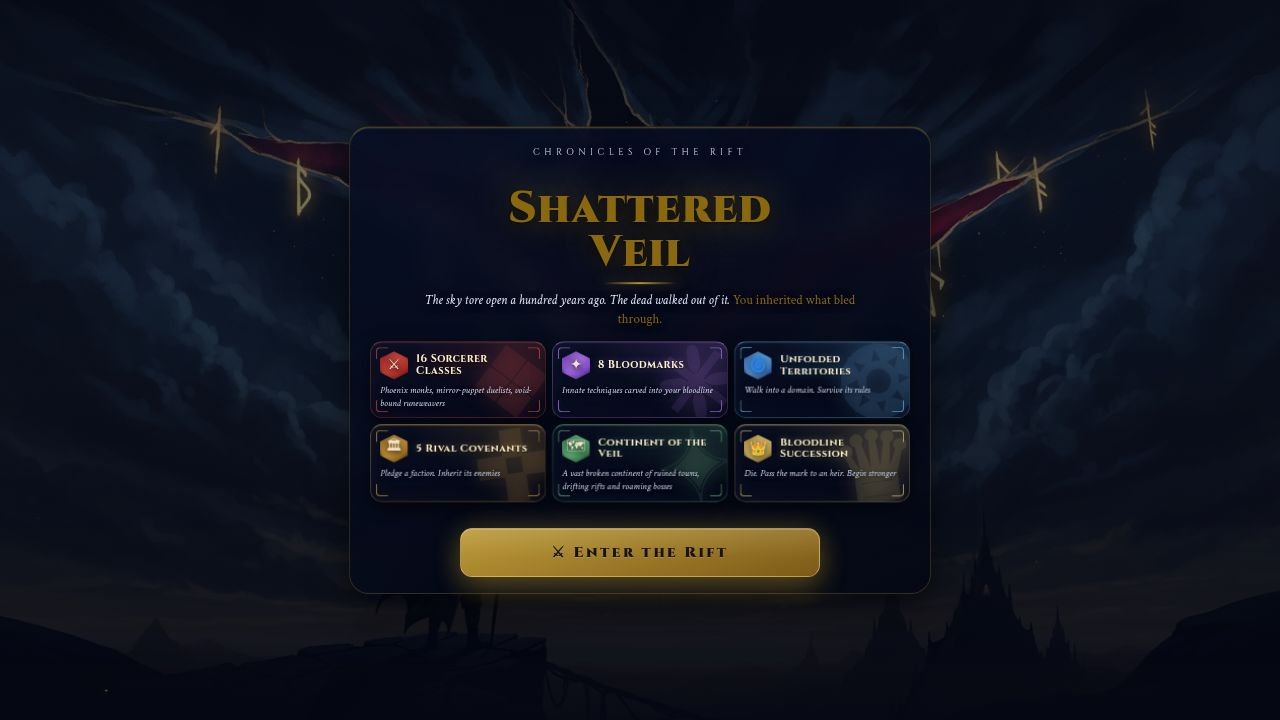
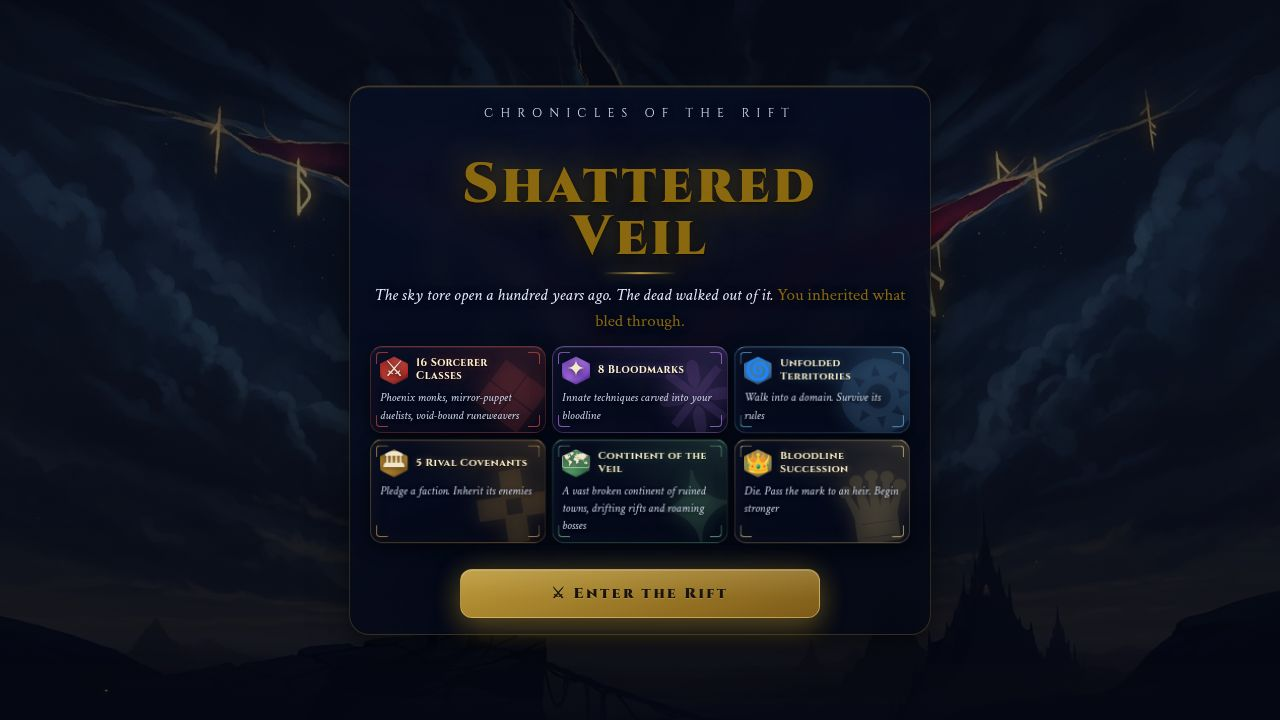
Improve game interface with updated visuals and interactive elements
Refactor HUD component, update CSS for styling, and add new image assets for resources.

Replit-Commit-Author: Agent
Replit-Commit-Session-Id: 8a621423-fdf4-488f-94bb-8c528560146f
Replit-Commit-Checkpoint-Type: full_checkpoint
Replit-Commit-Event-Id: 3fc35c25-d563-4f04-9aa5-8ef2459fb887
Replit-Commit-Screenshot-Url: https://storage.googleapis.com/screenshot-production-us-central1/82c241e2-9a1b-467b-b8f6-fd501ec4e4f2/8a621423-fdf4-488f-94bb-8c528560146f/ZHe4quu
Replit-Helium-Checkpoint-Created: true

Changed region(s): [[0.2812, 0.2139, 0.7188, 0.8861], [0.375, 0.1528, 0.625, 0.1833]]

diff --git a/artifacts/shattered-veil/src/game.css b/artifacts/shattered-veil/src/game.css
@@ -5574,3 +5574,172 @@ html, body, #root { height: 100%; max-height: 100vh; overflow: hidden; }
   font-size: 16px;
   filter: drop-shadow(0 0 4px rgba(120, 196, 236, 0.55));
 }
+
+/* ====================================================================
+   v73 — TITLE TYPOGRAPHY + HUD REDESIGN + READABLE BUTTONS
+   ====================================================================
+   - Title h1 / tagline / pillars / CTA: bigger, bolder, more readable.
+   - HUD char-info: bars relocated alongside text rows (2-col grid),
+     bubble is shorter and feels balanced.
+   - HUD resource tiles: painted PNG sigils replace flat emoji.
+   - Fish moved into the primary row beside SHD; clicking opens a popup
+     ledger instead of an inline dropdown.
+   - All char-box pieces (name, class, gen, day, rank, bm, covenant) and
+     resource tiles (gold/frag/shd/fish/bank/loan) are clickable with
+     info popups.
+   - Battle aux dropdown panels: dark navy bg + light text (was
+     parchment, white-on-white text was invisible).
+   - Char-creation back buttons unified: dark navy + cream text.
+   - Tags (rank/bloodmark/covenant) standardised: Cinzel uppercase pill.
+   ==================================================================== */
+
+/* Title typography bumps — slightly bigger, easier to read */
+.title-bg-art .title-hero h1 {
+  font-size: 56px !important;
+  letter-spacing: 0.06em !important;
+  line-height: 0.94 !important;
+}
+.title-eyebrow { font-size: 12px !important; letter-spacing: 0.6em !important; }
+.title-tagline { font-size: 17px !important; line-height: 1.55 !important; max-width: 540px !important; }
+.title-pillar-nm { font-size: 13px !important; line-height: 1.25 !important; }
+.title-pillar-ds { font-size: 12px !important; line-height: 1.45 !important; }
+.title-pillar-ic { font-size: 22px !important; }
+.title-cta { font-size: 19px !important; padding: 18px 28px !important; letter-spacing: 0.20em !important; }
+@media (max-width: 520px) {
+  .title-bg-art .title-hero h1 { font-size: 42px !important; }
+  .title-tagline { font-size: 15px !important; }
+  .title-cta { font-size: 16px !important; padding: 14px 20px !important; }
+}
+
+/* Battle aux dropdown panels — readable dark navy + light text */
+.battle-aux-dropdown {
+  background: linear-gradient(180deg, rgba(10,16,38,0.96) 0%, rgba(6,10,24,0.98) 100%) !important;
+  border: 1px solid rgba(212,173,64,0.32) !important;
+  color: #e6ecff !important;
+  box-shadow: inset 0 1px 0 rgba(255,224,160,0.08), 0 6px 18px rgba(0,0,0,0.45);
+}
+.battle-aux-dropdown > div { color: #e6ecff !important; }
+.battle-aux-dropdown > div[style*="cursor"] {
+  background: linear-gradient(180deg, rgba(20,28,56,0.85), rgba(12,18,40,0.92)) !important;
+  border: 1px solid rgba(212,173,64,0.22) !important;
+  color: #e6ecff !important;
+  transition: border-color 120ms ease, box-shadow 120ms ease, transform 120ms ease;
+}
+.battle-aux-dropdown > div[style*="cursor"]:hover {
+  border-color: rgba(242,196,92,0.55) !important;
+  box-shadow: 0 0 10px rgba(212,173,64,0.30);
+  transform: translateY(-1px);
+}
+.battle-aux-dropdown > div[style*="cursor"] > div { color: #e6ecff !important; }
+.battle-aux-dropdown > div[style*="cursor"] span { color: inherit; }
+
+/* HUD v73 — char-info 2-column layout (text left, mini-bars right) */
+.hud-shell-v73 .hud-char-info-cols {
+  display: grid;
+  grid-template-columns: minmax(0, 1fr) 128px;
+  gap: 10px;
+  align-items: start;
+}
+@media (max-width: 540px) {
+  .hud-shell-v73 .hud-char-info-cols { grid-template-columns: 1fr; gap: 5px; }
+}
+.hud-shell-v73 .hud-char-info-text { min-width: 0; display: flex; flex-direction: column; gap: 2px; }
+.hud-shell-v73 .hud-char-bars {
+  margin-top: 0 !important;
+  background: linear-gradient(180deg, rgba(8,12,28,0.70) 0%, rgba(4,8,18,0.88) 100%);
+  border: 1px solid rgba(212,173,64,0.22);
+  border-radius: 7px;
+  padding: 5px 6px;
+  gap: 3px !important;
+}
+.hud-shell-v73 .hud-char-bar { grid-template-columns: 18px 1fr 44px !important; gap: 4px !important; }
+.hud-shell-v73 .hud-char-bar > div { height: 7px !important; }
+.hud-shell-v73 .hud-char-bar-num { font-size: 8.5px !important; }
+
+/* HUD v73 — clickable affordances */
+.hud-shell-v73 .hud-clickable { cursor: pointer; transition: filter 120ms ease, text-shadow 120ms ease, transform 120ms ease; }
+.hud-shell-v73 .hud-clickable:hover { filter: brightness(1.18); text-shadow: 0 0 8px currentColor; }
+.hud-shell-v73 .hud-tag.hud-clickable:hover { box-shadow: 0 0 10px currentColor; transform: translateY(-1px); }
+.hud-shell-v73 .hud-sub-sep { color: rgba(241,231,200,0.35) !important; }
+.hud-shell-v73 .hud-char-portrait.hud-clickable:hover { transform: scale(1.04); }
+
+/* HUD v73 — standardised tag pills (rank, bloodmark, covenant) */
+.hud-shell-v73 .hud-tag {
+  font-size: 9px !important;
+  padding: 2px 8px !important;
+  font-family: 'Cinzel', serif !important;
+  letter-spacing: 0.06em !important;
+  text-transform: uppercase;
+  font-weight: 700 !important;
+  border-width: 1px !important;
+  border-style: solid !important;
+  border-radius: 999px !important;
+  display: inline-flex;
+  align-items: center;
+  gap: 4px;
+  line-height: 1.2;
+}
+
+/* HUD v73 — painted resource icons */
+.hud-shell-v73 .hud-res-tile {
+  padding: 4px 9px 4px 5px;
+  gap: 6px;
+  min-height: 30px;
+  border-radius: 7px;
+}
+.hud-shell-v73 .hud-res-row { gap: 5px; }
+.hud-shell-v73 .hud-res-ic {
+  display: inline-flex; align-items: center; justify-content: center;
+  width: 24px; height: 24px;
+  position: relative;
+  filter: drop-shadow(0 1px 2px rgba(0,0,0,0.7));
+  flex: 0 0 auto;
+}
+.hud-shell-v73 .hud-res-ic-img {
+  width: 24px; height: 24px;
+  object-fit: contain;
+  display: inline-block;
+}
+.hud-shell-v73 .hud-res-ic-fb { font-size: 16px; line-height: 1; }
+.hud-shell-v73 button.hud-res-tile {
+  font-family: inherit;
+  cursor: pointer;
+  appearance: none;
+}
+.hud-shell-v73 button.hud-res-tile:hover {
+  border-color: rgba(242,196,92,0.55);
+  box-shadow: 0 0 12px rgba(212,173,64,0.35);
+  transform: translateY(-1px);
+}
+.hud-shell-v73 .hud-res-tile.is-empty { opacity: 0.55; }
+.hud-shell-v73 .hud-res-tile.hud-res-gold  { background: linear-gradient(180deg, rgba(74,52,18,0.85), rgba(38,26,8,0.92)) !important; border-color: rgba(242,196,92,0.50) !important; }
+.hud-shell-v73 .hud-res-tile.hud-res-frag  { background: linear-gradient(180deg, rgba(50,30,72,0.85), rgba(28,16,46,0.92)) !important; border-color: rgba(206,147,216,0.45) !important; }
+.hud-shell-v73 .hud-res-tile.hud-res-shard { background: linear-gradient(180deg, rgba(60,28,58,0.85), rgba(34,14,32,0.92)) !important; border-color: rgba(245,184,224,0.45) !important; }
+.hud-shell-v73 .hud-res-tile.hud-res-fish  { background: linear-gradient(180deg, rgba(14,42,68,0.85), rgba(6,22,42,0.92)) !important; border-color: rgba(127,209,255,0.45) !important; }
+.hud-shell-v73 .hud-res-tile.hud-res-bank  { background: linear-gradient(180deg, rgba(18,34,58,0.85), rgba(8,18,36,0.92)) !important; border-color: rgba(184,230,255,0.45) !important; }
+.hud-shell-v73 .hud-res-tile.hud-res-loan  { background: linear-gradient(180deg, rgba(60,18,18,0.88), rgba(34,8,8,0.94)) !important; border-color: rgba(229,57,53,0.55) !important; }
+
+/* HUD v73 — bubble polish: a subtle inner gold rule under top edge */
+.hud-shell-v73 .hud-char-box,
+.hud-shell-v73 .hud-resource-box {
+  box-shadow: inset 0 1px 0 rgba(255,224,160,0.18), inset 0 0 0 1px rgba(255,255,255,0.02), 0 6px 16px rgba(0,0,0,0.45);
+}
+
+/* Fish ledger — popup styling */
+.popup-modal .hud-fish-ledger-popup {
+  display: grid;
+  gap: 4px;
+  max-height: 50vh;
+  overflow-y: auto;
+  padding: 4px 2px;
+}
+.popup-modal .hud-fish-ledger-popup .hud-fish-row {
+  display: flex; justify-content: space-between; gap: 12px;
+  padding: 7px 12px;
+  background: linear-gradient(180deg, rgba(14,22,46,0.88), rgba(8,14,30,0.95));
+  border: 1px solid rgba(212,173,64,0.25);
+  border-radius: 7px;
+  font-size: 12px;
+}
+.popup-modal .hud-fish-ledger-popup .hud-fish-nm { color: #cfd6ee; font-family: 'Crimson Text', serif; }
+.popup-modal .hud-fish-ledger-popup .hud-fish-qty { color: #ffd97a; font-family: 'Cinzel', serif; font-weight: 800; letter-spacing: 0.04em; }

diff --git a/artifacts/shattered-veil/src/Game.jsx b/artifacts/shattered-veil/src/Game.jsx
@@ -6960,55 +6960,88 @@ const buildGroupedBattleLog = (entries) => {
 
   // ── HUD ──
   const fishCount = Array.isArray(fish) ? fish.reduce((s, f) => s + (f.qty || 1), 0) : 0;
-  const hud = pl && !["title","create"].includes(scr) ? (
-    <div className="cd hud-shell hud-shell-v63" style={{ padding: 8 }}>
-      {/* v63 — top row: character box + resource box */}
+  const hud = pl && !["title","create"].includes(scr) ? (() => {
+    const RES_BASE = (import.meta.env.BASE_URL || "/") + "res/";
+    const resIc = (name, emoji) => <span className="hud-res-ic">
+      <img className="hud-res-ic-img" src={RES_BASE + name + ".png"} alt="" draggable={false}
+        onError={(e) => { try { const t = e.currentTarget; t.style.display = "none"; const fb = t.nextElementSibling; if (fb) fb.style.display = "inline-block"; } catch(_){} }} />
+      <span className="hud-res-ic-fb" style={{ display: "none" }}>{emoji}</span>
+    </span>;
+    const rk = getRank(pl.level);
+    const nextRk = getNextRankLevel(pl.level);
+    const bmLive = pl.bloodmark ? getBM(pl.bloodmark) : null;
+    const cvLive = pl.covenant ? getCV(pl.covenant) : null;
+    const elDisplay = cls ? (cls.multiEl ? "4 random elements" : (cls.el2 ? cls.el + " / " + cls.el2 : cls.el)) : "—";
+    const heroSummary = "⚔ " + pl.name + "\n\nA " + (cls?.nm || "sorcerer") + " of generation " + (pl.generation || 1) + ", currently " + ageInfo.nm.toLowerCase() + " on day " + ageDay + " of their span.";
+    const openFishPopup = () => setPopup({
+      title: "🐟 Fish Caught — " + fishCount,
+      node: fishLedger.length > 0 ? <div className="hud-fish-ledger-popup">{fishLedger.map(f => <div key={f.nm} className="hud-fish-row"><span className="hud-fish-nm">{f.nm}</span><span className="hud-fish-qty">×{f.qty}</span></div>)}</div> : <div style={{ fontSize: 12, color: "#bcc6e6", textAlign: "center", padding: 14, lineHeight: 1.5 }}>No fish caught yet — visit a coast or stand in water and tap the Fish quick-button on the map.</div>,
+      fullscreen: true,
+    });
+    return (
+    <div className="cd hud-shell hud-shell-v63 hud-shell-v73" style={{ padding: 8 }}>
+      {/* v73 — top row: character box + resource box */}
       <div className="hud-top-row">
         {/* CHARACTER BOX */}
         <div className="hud-char-box">
-          <div className="hud-char-portrait" style={{ background: cls?.cl, border: "1.5px solid " + (cls?.cl || T.gd), boxShadow: "0 0 0 1px rgba(0,0,0,0.5), 0 0 12px " + (cls?.cl || T.gd) + "66" }}>
+          <div className="hud-char-portrait hud-clickable" title="Hero — click for details" onClick={() => setPopup({ text: heroSummary })} style={{ background: cls?.cl, border: "1.5px solid " + (cls?.cl || T.gd), boxShadow: "0 0 0 1px rgba(0,0,0,0.5), 0 0 12px " + (cls?.cl || T.gd) + "66" }}>
             {playerAvatar(pl?.cid || cls?.id, cls?.ic, pl?.portrait, pl?.sex)}
           </div>
           <div className="hud-char-info">
-            <div className="hud-char-name-row">
-              <span className="hud-char-name" style={{ color: cls?.cl }}>{pl.name}</span>
-              {entityBattleElements(pl).map((elx, i) => <ElementTag key={elx + "_hud_" + i} el={elx} fontSize={9} />)}
-            </div>
-            <div className="hud-char-sub">{cls?.nm} · Gen.{pl.generation || 1} · {ageSummary}</div>
-            <div className="hud-char-tags">
-              {(() => { const rk = getRank(pl.level); return <span className="hud-tag" style={{ background: rk.cl + "22", borderColor: rk.cl + "55", color: rk.cl, fontWeight: 700 }}>{rk.ic} {rk.nm}</span>; })()}
-              {pl.bloodmark && (() => { const bm = getBM(pl.bloodmark); return bm ? <span className="hud-tag" style={{ background: bm.cl + "22", borderColor: bm.cl + "44", color: bm.cl }}>{bm.ic} {bm.nm}</span> : null; })()}
-              {pl.covenant && (() => { const cv = getCV(pl.covenant); return cv ? <span className="hud-tag" style={{ background: cv.cl + "22", borderColor: cv.cl + "44", color: cv.cl }}>{cv.ic} {cv.nm}</span> : null; })()}
-            </div>
-            {/* v71 — compact stacked HP/MP/XP bars inside the character box */}
-            <div className="hud-char-bars">
-              <div className="hud-char-bar"><span className="hud-char-bar-tag" style={{ color: T.hp }}>HP</span>{pBar(pl.chp, st.hp, T.hp)}<span className="hud-char-bar-num">{pl.chp}/{st.hp}</span></div>
-              <div className="hud-char-bar"><span className="hud-char-bar-tag" style={{ color: T.mp }}>MP</span>{pBar(pl.cmp, st.mp, T.mp)}<span className="hud-char-bar-num">{pl.cmp}/{st.mp}</span></div>
-              <div className="hud-char-bar"><span className="hud-char-bar-tag" style={{ color: T.xp }}>XP</span>{pBar(pl.xp, xpFor(pl.level), T.xp, 3)}<span className="hud-char-bar-num">{pl.xp}/{xpFor(pl.level)}</span></div>
+            <div className="hud-char-info-cols">
+              <div className="hud-char-info-text">
+                <div className="hud-char-name-row">
+                  <span className="hud-char-name hud-clickable" style={{ color: cls?.cl }} title="Hero — click for details" onClick={() => setPopup({ text: heroSummary })}>{pl.name}</span>
+                  {entityBattleElements(pl).map((elx, i) => <ElementTag key={elx + "_hud_" + i} el={elx} fontSize={9} />)}
+                </div>
+                <div className="hud-char-sub">
+                  {cls && <span className="hud-clickable" title="Class — click for details" onClick={() => setPopup({ text: cls.nm + "\n\n" + cls.ds + "\n\nElement: " + elDisplay + "\nStat tier: ATK " + cls.stR + "/5  ·  SK " + cls.skR + "/5" })}>{cls.nm}</span>}
+                  <span className="hud-sub-sep"> · </span>
+                  <span className="hud-clickable" title="Generation — click for details" onClick={() => setPopup({ text: "🩸 Generation " + (pl.generation || 1) + "\n\nEach time your hero dies, the bloodline continues through their heir — inheriting your bloodmark (with a rare chance of mutation), legacy traits, and a starting boon.\n\nA single hero matters. A bloodline matters more." })}>Gen.{pl.generation || 1}</span>
+                  <span className="hud-sub-sep"> · </span>
+                  <span className="hud-clickable" title="Stage of life · day — click for details" onClick={() => setPopup({ text: "🌱 " + ageInfo.nm + " — Day " + ageDay + " of 31\n\nA hero's lifespan is short but meaningful. Age shapes your effective stats: youth boosts speed, prime boosts power, elders trade physicality for wisdom.\n\nWhen your days run out, the mark passes to your heir." })}>{ageSummary}</span>
+                </div>
+                <div className="hud-char-tags">
+                  <span className="hud-tag hud-clickable" style={{ background: rk.cl + "22", borderColor: rk.cl + "55", color: rk.cl }} title="Rank — click for details" onClick={() => setPopup({ text: rk.ic + " " + rk.nm + "\n\n" + rk.ds + (Object.keys(rk.bonus || {}).length > 0 ? "\n\nRank bonus: " + Object.entries(rk.bonus).map(([k,v]) => "+" + v + " " + k.toUpperCase()).join(" · ") : "") + "\n\nLevel " + pl.level + (nextRk ? "  ·  Next grade at Lv." + nextRk : "  ·  Max grade") })}>{rk.ic} {rk.nm}</span>
+                  {bmLive && <span className="hud-tag hud-clickable" style={{ background: bmLive.cl + "22", borderColor: bmLive.cl + "55", color: bmLive.cl }} title="Bloodmark — click for details" onClick={() => setPopup({ text: bmLive.ic + " " + bmLive.nm + "\n\n" + bmLive.ds + (bmLive.passiveDesc ? "\n\n⚡ " + bmLive.passiveDesc : "") + (Object.keys(bmLive.stat || {}).length > 0 ? "\n\nStat traits: " + Object.entries(bmLive.stat).map(([k,v]) => (v > 0 ? "+" : "") + v + " " + k.toUpperCase()).join(" · ") : "") })}>{bmLive.ic} {bmLive.nm}</span>}
+                  {cvLive && <span className="hud-tag hud-clickable" style={{ background: cvLive.cl + "22", borderColor: cvLive.cl + "55", color: cvLive.cl }} title="Covenant — click for details" onClick={() => setPopup({ text: cvLive.ic + " " + cvLive.nm + "\n\n" + cvLive.ds })}>{cvLive.ic} {cvLive.nm}</span>}
+                </div>
+              </div>
+              {/* v73 — HP/MP/XP bars sit alongside the text rows (right column) */}
+              <div className="hud-char-bars">
+                <div className="hud-char-bar"><span className="hud-char-bar-tag" style={{ color: T.hp }}>HP</span>{pBar(pl.chp, st.hp, T.hp)}<span className="hud-char-bar-num">{pl.chp}/{st.hp}</span></div>
+                <div className="hud-char-bar"><span className="hud-char-bar-tag" style={{ color: T.mp }}>MP</span>{pBar(pl.cmp, st.mp, T.mp)}<span className="hud-char-bar-num">{pl.cmp}/{st.mp}</span></div>
+                <div className="hud-char-bar"><span className="hud-char-bar-tag" style={{ color: T.xp }}>XP</span>{pBar(pl.xp, xpFor(pl.level), T.xp, 3)}<span className="hud-char-bar-num">{pl.xp}/{xpFor(pl.level)}</span></div>
+              </div>
             </div>
           </div>
         </div>
-        {/* RESOURCE BOX */}
+        {/* RESOURCE BOX — v73 painted icons, fish moved next to SHD, all tiles clickable */}
         <div className="hud-resource-box">
           <div className="hud-res-row hud-res-primary">
-            <div className="hud-res-tile hud-res-gold" title="Gold"><span className="hud-res-ic">💰</span><span className="hud-res-val">{gold}</span></div>
-            <div className="hud-res-tile hud-res-frag" title="Veil Fragments"><span className="hud-res-ic">🔮</span><span className="hud-res-val">{fragments}</span><span className="hud-res-lbl">frag</span></div>
-            <div className="hud-res-tile hud-res-shard" title="Relic Shards"><span className="hud-res-ic">✦</span><span className="hud-res-val">{shards}</span><span className="hud-res-lbl">shd</span></div>
+            <button type="button" className="hud-res-tile hud-res-gold is-clickable" title="Gold — click for details" onClick={() => setPopup({ text: "💰 Gold — Standard tender across the fractured world.\n\nEarned from battles, fishing, town services, and treasure caches. Spent on inn rest, gear, services, and covenant rites.\n\nCarried: " + gold + " g" })}>
+              {resIc("gold","💰")}<span className="hud-res-val">{gold}</span>
+            </button>
+            <button type="button" className="hud-res-tile hud-res-frag is-clickable" title="Veil Fragments — click for details" onClick={() => setPopup({ text: "🔮 Veil Fragments — Crystallised residue left behind when Veil-touched foes break apart.\n\nUsed by the Relic Crafter to forge consumable relics: tonics, talismans, and void shards.\n\nCarried: " + fragments + " frag" })}>
+              {resIc("frag","🔮")}<span className="hud-res-val">{fragments}</span><span className="hud-res-lbl">frag</span>
+            </button>
+            <button type="button" className="hud-res-tile hud-res-shard is-clickable" title="Relic Shards — click for details" onClick={() => setPopup({ text: "✦ Relic Shards — Splinters of broken legendary relics, dropped by bosses and rifts.\n\nA crafting reagent for higher-tier relics; sometimes accepted by shrines as offering.\n\nCarried: " + shards + " shd" })}>
+              {resIc("shard","✦")}<span className="hud-res-val">{shards}</span><span className="hud-res-lbl">shd</span>
+            </button>
+            <button type="button" className={"hud-res-tile hud-res-fish is-clickable" + (fishCount === 0 ? " is-empty" : "")} title="Fish caught — click for ledger" onClick={openFishPopup}>
+              {resIc("fish","🐟")}<span className="hud-res-val">{fishCount}</span>
+            </button>
           </div>
           <div className="hud-res-row hud-res-secondary">
-            <div className={"hud-res-tile hud-res-fish" + (fishCount > 0 ? " is-clickable" : "")} title="Fish caught" onClick={() => fishCount > 0 && setShowFishLedger(v => !v)}>
-              <span className="hud-res-ic">🐟</span><span className="hud-res-val">{fishCount}</span>{fishCount > 0 && <span className="hud-res-caret">{showFishLedger ? "▲" : "▼"}</span>}
-            </div>
-            {bank > 0 && <div className="hud-res-tile hud-res-bank" title="Bank balance"><span className="hud-res-ic">🏦</span><span className="hud-res-val">{bank}</span></div>}
-            {loan > 0 && <div className="hud-res-tile hud-res-loan" title="Outstanding loan"><span className="hud-res-ic">💸</span><span className="hud-res-val">{loan}</span></div>}
-            {pet && <div className="hud-res-tile hud-res-pet" title={"Pet — " + pet.nm}><span className="hud-res-ic">{pet.ic}</span><span className="hud-res-val hud-res-name">{pet.nm}</span></div>}
-            {ally && <div className="hud-res-tile hud-res-ally" title={"Ally — " + ally.nm}><span className="hud-res-ic">🤝</span><span className="hud-res-val hud-res-name">{ally.nm}</span></div>}
-            {spouse && <button type="button" className="hud-res-tile hud-res-spouse is-clickable" title={"Spouse — " + spouse.nm} onClick={() => setPopup({ text: spouseDetailText(spouse) })}><span className="hud-res-ic">💍</span><span className="hud-res-val hud-res-name">{spouse.nm}</span></button>}
+            {bank > 0 && <button type="button" className="hud-res-tile hud-res-bank is-clickable" title="Bank balance — click for details" onClick={() => setPopup({ text: "🏦 Bank Balance — Gold safely stored at the bank.\n\nDeposit at any town to protect funds from death; withdraw when needed.\n\nBalance: " + bank + " g" })}>{resIc("bank","🏦")}<span className="hud-res-val">{bank}</span></button>}
+            {loan > 0 && <button type="button" className="hud-res-tile hud-res-loan is-clickable" title="Outstanding loan — click for details" onClick={() => setPopup({ text: "💸 Outstanding Loan — Gold borrowed from the bank.\n\nMust be repaid before death or interest may compound. Default risks ledger consequences.\n\nOwed: " + loan + " g" })}>{resIc("loan","💸")}<span className="hud-res-val">{loan}</span></button>}
+            {pet && <div className="hud-res-tile hud-res-pet" title={"Pet — " + pet.nm}><span className="hud-res-ic"><span className="hud-res-ic-fb" style={{ display: "inline-block" }}>{pet.ic}</span></span><span className="hud-res-val hud-res-name">{pet.nm}</span></div>}
+            {ally && <div className="hud-res-tile hud-res-ally" title={"Ally — " + ally.nm}><span className="hud-res-ic"><span className="hud-res-ic-fb" style={{ display: "inline-block" }}>🤝</span></span><span className="hud-res-val hud-res-name">{ally.nm}</span></div>}
+            {spouse && <button type="button" className="hud-res-tile hud-res-spouse is-clickable" title={"Spouse — " + spouse.nm} onClick={() => setPopup({ text: spouseDetailText(spouse) })}><span className="hud-res-ic"><span className="hud-res-ic-fb" style={{ display: "inline-block" }}>💍</span></span><span className="hud-res-val hud-res-name">{spouse.nm}</span></button>}
           </div>
-          {showFishLedger && fishLedger.length > 0 && <div className="hud-fish-ledger">{fishLedger.map(f => <div key={f.nm} className="hud-fish-row"><span>{f.nm}</span><span className="hud-fish-qty">×{f.qty}</span></div>)}</div>}
         </div>
       </div>
-      {/* v71 — bars relocated into hud-char-info above */}
+      {/* v73 — fish ledger now opens via popup */}
       {(() => { const tileNow = mData && pos ? mData[pos.y * MW + pos.x] : null; return tileNow && tileNow.bio === "ocean" ? <div className="hud-drown-warn">🌊 Drowning — swim to land. Ocean travel drains 1 HP and 1 MP every 2 seconds.</div> : null; })()}
       {pl.efx && pl.efx.length > 0 && <div className="hud-efx-row">{pl.efx.map((ef, i) => <StatusTag key={i} ef={ef} />)}</div>}
       <details className="hud-element-summary"><summary>Element Summary</summary>{renderMatchupInline(entityBattleElements(pl), "player")}</details>
@@ -7049,7 +7082,8 @@ const buildGroupedBattleLog = (entries) => {
         );
       })()}
     </div>
-  ) : null;
+    );
+  })() : null;
 
   // ═══════════════ SCREENS ═══════════════
 
@@ -7173,8 +7207,8 @@ const buildGroupedBattleLog = (entries) => {
             </div>
           </div>
           <div style={{ display: "flex", gap: 6, justifyContent: "center", marginTop: 10, position: "relative", zIndex: 1 }}>
-            <button className="bt" style={{ background: T.c2 }} onClick={() => setCStep(0)}>← Back</button>
-            <button className="bt" style={{ background: T.gd }} onClick={() => setCStep(2)}>Next: Identity →</button>
+            <button className="bt" style={{ background: "rgba(14,22,46,0.85)", color: "#cfd6ee", border: "1px solid rgba(212,173,64,0.45)", padding: "6px 14px" }} onClick={() => setCStep(0)}>← Back</button>
+            <button className="bt" style={{ background: T.gd, color: "#1a1206", padding: "6px 16px" }} onClick={() => setCStep(2)}>Next: Identity →</button>
           </div>
         </div>;
       })()}
@@ -8307,21 +8341,21 @@ const buildGroupedBattleLog = (entries) => {
                   {ults.length > 1 && <button className="bt bs" style={{ background: btlPanel === "ults" ? "#d8a83b" : "#6b5320", color: "#fff7de" }} onClick={() => setBtlPanel(btlPanel === "ults" ? null : "ults")}>📖 Spellbook</button>}
                   <button className="bt bs" style={{ background: "#b84c68", color: "#fff3f6" }} disabled={!isPT} onClick={() => bAct("flee")}>🏃 Flee</button>
                 </div>
-                {btlPanel === "items" && isPT && <div style={{ marginTop: 4, padding: 4, background: T.c1, borderRadius: 5, maxHeight: 220, overflowY: "auto" }}>
+                {btlPanel === "items" && isPT && <div className="battle-aux-dropdown" style={{ marginTop: 4, padding: 4, background: "rgba(10,16,38,0.95)", color: "#e6ecff", borderRadius: 5, maxHeight: 220, overflowY: "auto" }}>
                   <div style={{ fontSize: 9, color: T.dm, marginBottom: 2 }}>Equip item to empty slot (ends turn)</div>
                   {inv.filter(i => i.nm || i.ef).length === 0 && <div style={{ fontSize: 9, color: T.dm }}>No items available.</div>}
                   {inv.filter(i => i.nm || i.ef).map(i => <div key={i.id} style={{ padding: 3, fontSize: 9, cursor: "pointer", borderRadius: 3, background: T.c2, marginBottom: 1 }} onClick={() => bAct("btl_equip_item", i.id)}><div style={{ display: "flex", justifyContent: "space-between", alignItems: "center" }}><span>{i.nm||i.name} ×{i.qty||1}</span><span style={{ color: T.ok, fontSize: 8 }}>Equip →</span></div><div style={{ fontSize: 9, color: T.dm, marginTop: 1 }}>Effect: {itemEffectDetail(i)}</div></div>)}
                 </div>}
-                {btlPanel === "weapons" && isPT && <div style={{ marginTop: 4, padding: 4, background: T.c1, borderRadius: 5, maxHeight: 220, overflowY: "auto" }}>
+                {btlPanel === "weapons" && isPT && <div className="battle-aux-dropdown" style={{ marginTop: 4, padding: 4, background: "rgba(10,16,38,0.95)", color: "#e6ecff", borderRadius: 5, maxHeight: 220, overflowY: "auto" }}>
                   <div style={{ fontSize: 9, color: T.dm, marginBottom: 2 }}>Draw/swap weapon from inventory (ends turn)</div>
                   {inv.filter(i => i.atk !== undefined).length === 0 && <div style={{ fontSize: 9, color: T.dm }}>No weapons in inventory.</div>}
                   {inv.filter(i => i.atk !== undefined).map(i => <div key={i.id} style={{ padding: 3, fontSize: 9, cursor: "pointer", borderRadius: 3, background: T.c2, marginBottom: 1 }} onClick={() => bAct("btl_equip_weapon", i.id)}><div style={{ display: "flex", justifyContent: "space-between", alignItems: "center" }}><span>{i.name} [{i.el}] ATK:{i.atk}</span><span style={{ color: T.ok, fontSize: 8 }}>{(eq.w1 && eq.w1.id === i.id) || (eq.w2 && eq.w2.id === i.id) ? "Equipped" : "Draw →"}</span></div><div style={{ fontSize: 9, color: T.dm, marginTop: 1 }}>Effect: {weaponEffectDetail(i)}</div><div style={{ fontSize: 9, color: T.dm, marginTop: 1 }}>{(() => { const lines = attackSummaryLines(i.el, 3); return <span><span style={{ color: "#ffd77a", fontWeight: 700 }}>Deals Extra Damage To:</span> {renderMatchupItems(lines.dealMore, "deal")}</span>; })()}</div></div>)}
                 </div>}
-                {btlPanel === "skills" && isPT && <div style={{ marginTop: 4, padding: 4, background: T.c1, borderRadius: 5, maxHeight: 220, overflowY: "auto" }}>
+                {btlPanel === "skills" && isPT && <div className="battle-aux-dropdown" style={{ marginTop: 4, padding: 4, background: "rgba(10,16,38,0.95)", color: "#e6ecff", borderRadius: 5, maxHeight: 220, overflowY: "auto" }}>
                   <div style={{ fontSize: 9, color: T.dm, marginBottom: 2 }}>Swap an equipped skill (ends turn)</div>
                   {pl.skills.filter(s => s.unlocked && !s.equipped).map(sk => <div key={sk.id} style={{ padding: 2, fontSize: 9, display: "flex", justifyContent: "space-between", alignItems: "center", cursor: "pointer", borderRadius: 3, background: T.c2, marginBottom: 1 }} onClick={() => bAct("btl_equip_skill", sk.id)}><span>{sk.n} [{sk.el}] P:{sk.pow} MP:{sk.mp}</span><span style={{ color: T.ok, fontSize: 8 }}>Equip →</span></div>)}
                 </div>}
-                {btlPanel === "ults" && isPT && <div style={{ marginTop: 4, padding: 4, background: T.c1, borderRadius: 5, maxHeight: 220, overflowY: "auto" }}>
+                {btlPanel === "ults" && isPT && <div className="battle-aux-dropdown" style={{ marginTop: 4, padding: 4, background: "rgba(10,16,38,0.95)", color: "#e6ecff", borderRadius: 5, maxHeight: 220, overflowY: "auto" }}>
                   <div style={{ fontSize: 9, color: T.dm, marginBottom: 2 }}>Set forbidden magic from spellbook (ends turn, resets chain)</div>
                   {(ults.length ? ults : [pl.ult]).map((u, i) => <div key={i} style={{ padding: 2, fontSize: 9, display: "flex", justifyContent: "space-between", alignItems: "center", cursor: "pointer", borderRadius: 3, background: pl.ult.name === u.name ? T.gd + "22" : T.c2, marginBottom: 1 }} onClick={() => { if (pl.ult.name !== u.name) bAct("btl_set_ult", i); }}><span>{u.name} P:{u.pow} {u.fx||""}</span><span style={{ color: pl.ult.name === u.name ? T.ok : T.ac, fontSize: 8 }}>{pl.ult.name === u.name ? "Active" : "Set →"}</span></div>)}
                 </div>}

diff --git a/replit.md b/replit.md
@@ -223,3 +223,24 @@ CSS: single `v71 — MAP/HUD POLISH PASS` block appended at the end of `game.css
 - **Card UI auto-adapts.** `renderCard` and the Stats-page bloodmark card now branch on `bm.passiveDesc`: shows the passive box if present, otherwise a dashed "Ancestral lineage — stat traits only" plate. Stat row branches on `Object.keys(bm.stat).length` and falls back to "No stat bonus — passive only" for class-innate cards.
 - **Skill interactions: 1 per run.** `createChar` now calls `pickAssignedInteractions(shuffled, 1, c.id)` (was 2). Identity-step copy reads "Only one interaction is rolled randomly each run…". Battle logic (`evaluateInteractions`, `getReadyInteractions`) iterates `pl.inter` so the smaller list is handled automatically — no battle changes needed.
 - **Bloodmark step text fixed.** Header now reads "It shapes your passive abilities." (dropped "and starting statistics"). The "You may skip this step" line moved from `T.dm` (which vanished into the dark step bg) to a warm `#ffd98a` italic pill with a subtle navy chip and gold border, so it reads cleanly over the painted backdrop.
+
+## v73 — HUD redesign + clickable info popups + readable buttons
+
+Multi-part HUD/UX polish round. Deliberate, additive, no state-shape changes.
+
+- **Painted resource icons**: 6 hand-generated PNG sigils replace flat emoji on the HUD resource tiles. Files in `public/res/{gold,frag,shard,fish,bank,loan}.png`. New `resIc(name, emoji)` inline helper renders an `<img>` with an emoji `onError` fallback. The `hud-shell-v73` class scopes new sizing (24×24 icon slot, drop-shadow), tile gradients, and per-resource border tint.
+- **Char-info 2-column layout**: HP/MP/XP bars moved out from below the text rows into a right-side column (`.hud-char-info-cols { grid-template-columns: minmax(0,1fr) 128px }`). Bubble is shorter and visually balanced; bars get their own dark-navy boxed strip. Mobile (<540px) falls back to a single column.
+- **Fish moved to primary row**: now sits beside SHD on the same row (gold / frag / shard / fish), no longer in the secondary row. Click opens a fullscreen popup with the species ledger (`hud-fish-ledger-popup`) instead of an inline `<details>`-style dropdown. The legacy `setShowFishLedger` toggle is no longer mounted by the HUD JSX.
+- **Everything is clickable for an info popup**:
+  - Portrait + hero name → "A {class} of generation N, currently {stage} on day {n} of their span."
+  - Class · Gen · Stage/Day → 3 separate clickable spans, each with its own popup.
+  - Rank / Bloodmark / Covenant tags → full description + bonus / passive trait listing.
+  - Gold / Frag / Shard / Fish / Bank / Loan tiles → lore + carried amount.
+  - Spouse tile (already in v60s) keeps its existing detail popup.
+  - All clickable elements get a `.hud-clickable` class with hover brightness + text-shadow.
+- **Standardised tag pills** (rank, bloodmark, covenant): `.hud-shell-v73 .hud-tag` is now a unified Cinzel uppercase 9px pill, 999px radius, color/border-color driven by the live entity's `cl`. Hover gives a glow ring matching the tag color.
+- **Title text bumps**: `h1` 44→56px (mobile fallback 42px), tagline 14→17px, eyebrow 10→12px, pillar headers 11→13px, pillar descriptions 10→12px, CTA 16→19px. Letter-spacing widened on h1 + CTA. Text-shadow already present from v56 keeps it readable over the painted hero artwork.
+- **Char-creation back buttons**: both back buttons (cstep1 → cstep0 line ~7176, cstep2 → cstep0 line ~7213) given explicit `background: rgba(14,22,46,0.85); color: #cfd6ee; border: 1px solid rgba(212,173,64,0.45)`. Was previously `background: T.c2` (parchment) which made the white inherited button text invisible against the bright background.
+- **Battle Auxiliary Actions dropdowns**: each of the 4 dropdown panels (Equip Item / Draw Weapon / Swap Skill / Spellbook) tagged with `className="battle-aux-dropdown"` and inline bg replaced from `T.c1` (parchment) → `rgba(10,16,38,0.95)` + `color: #e6ecff`. CSS overrides `.battle-aux-dropdown > div[style*="cursor"]` so each row gets a navy gradient + gold border + hover glow, with all child text forced light. Fixes the "white text on white parchment" invisibility.
+
+CSS lives in a single `v73 — TITLE TYPOGRAPHY + HUD REDESIGN + READABLE BUTTONS` block at the end of `game.css`. JSX changes are scoped to the HUD block (~line 6964–7088), the two char-creation back buttons, and a `sed` pass that added the `battle-aux-dropdown` class to the 4 dropdown wrappers. No state shape changed, no save migration needed.